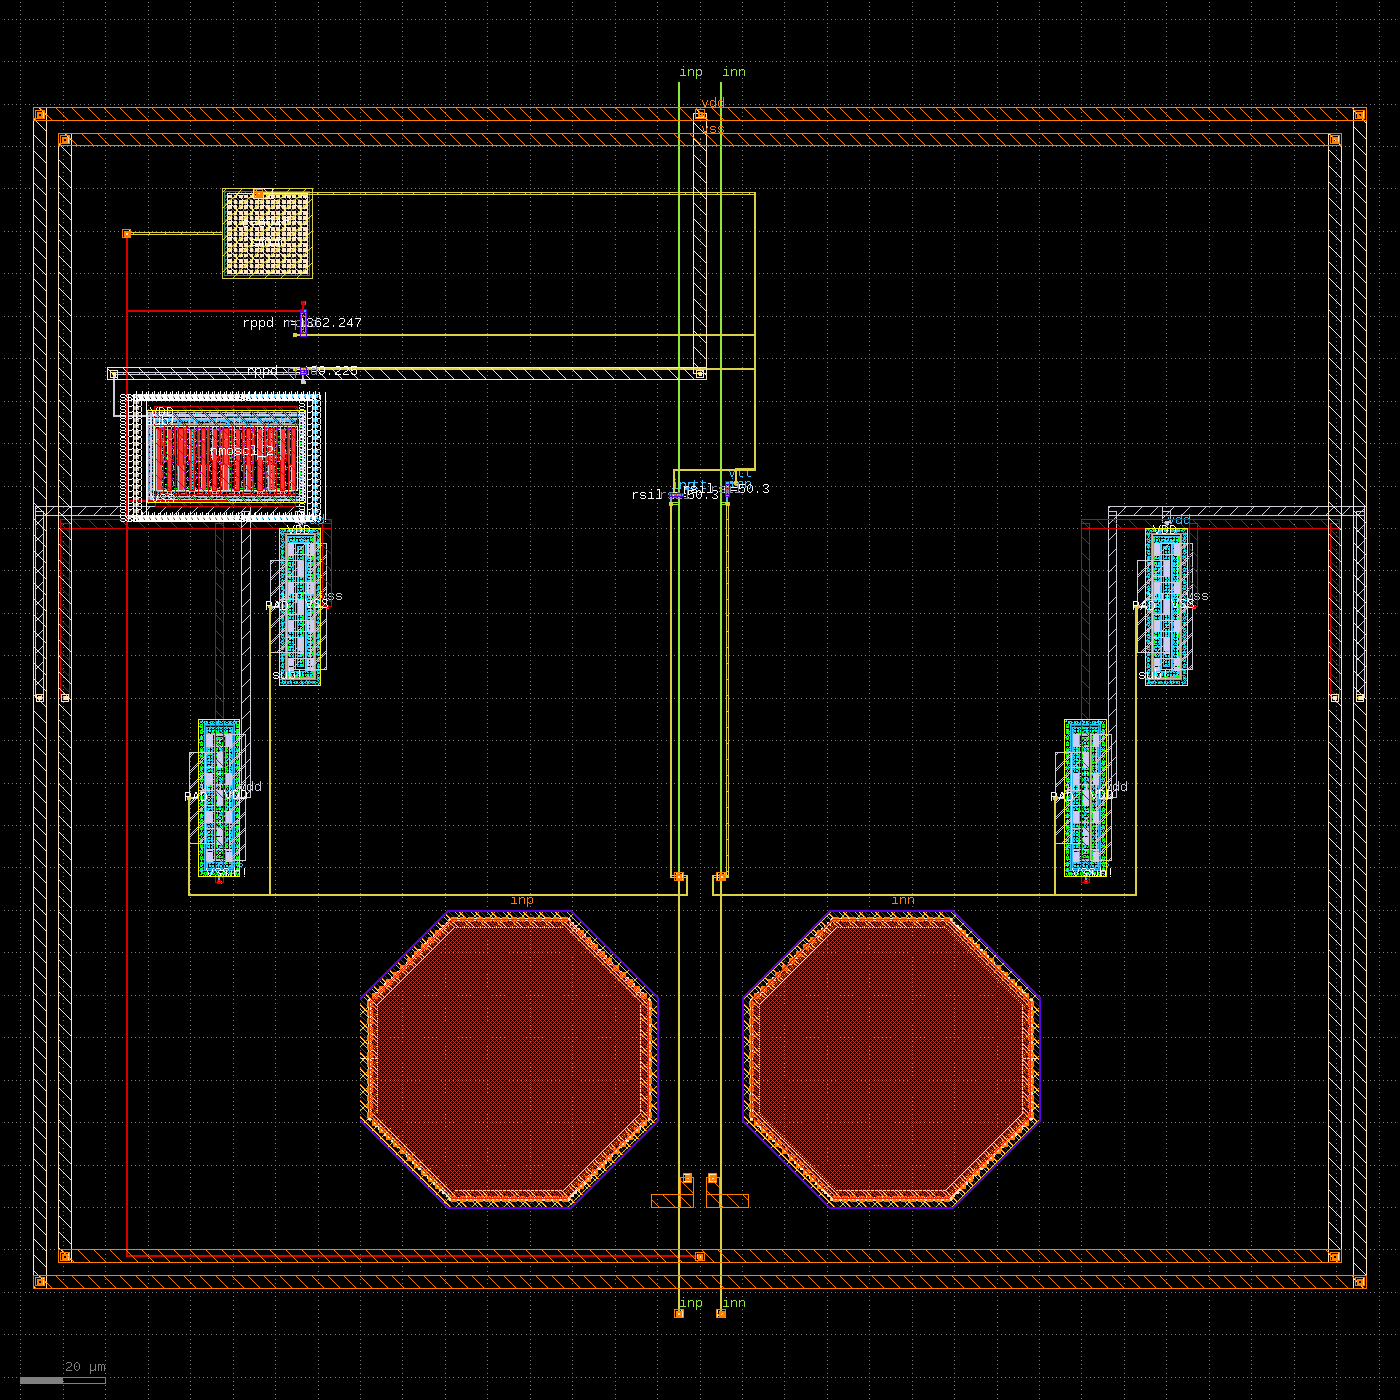
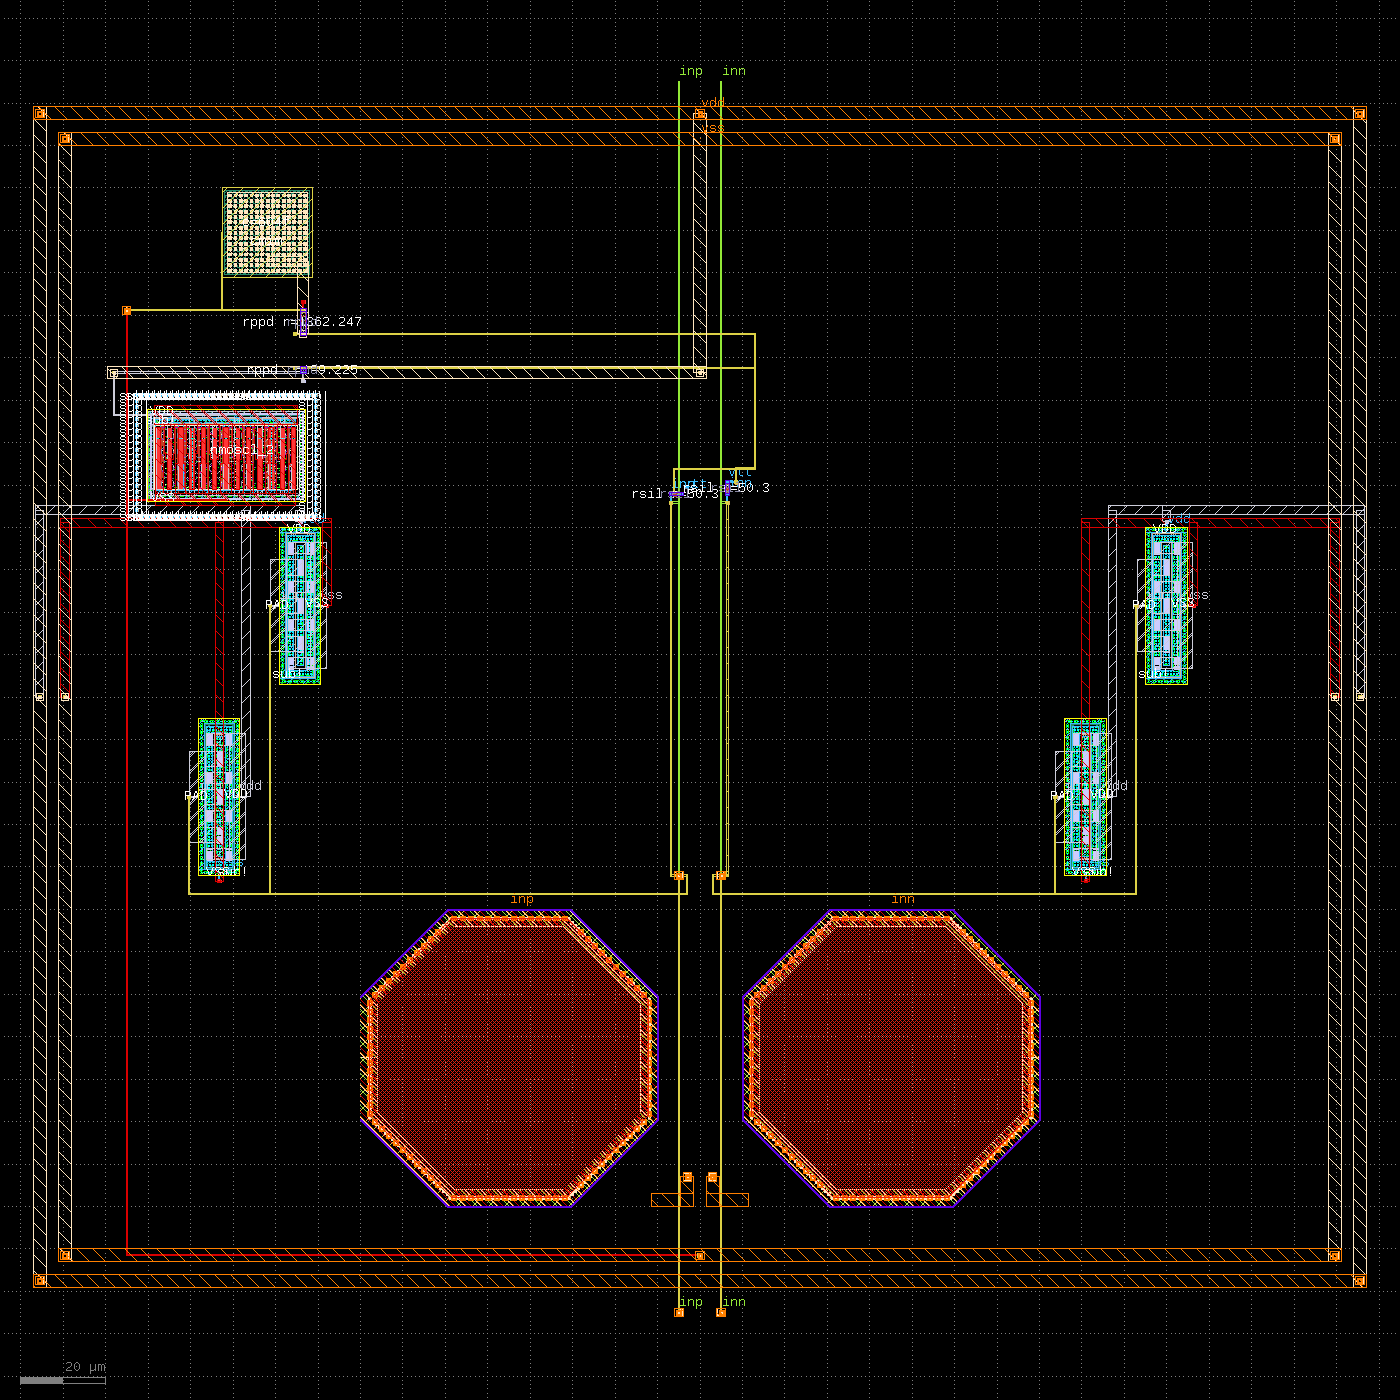
term_dut: ctle-style cmim legs, clamp CDL fix, LVS clean
Route cap_cmim MINUS/PLUS with Metal5 and TopMetal1 legs from rbot_t
(ctle_stage degen pattern) so mim plates merge vss/vtt in hierarchical
LVS without terminal labels that created isolated nets.

Restore clamp instance CDL mapping to VDD=vdd, VSS=vss (driver pattern);
the swapped mapping broke LVS schematic alignment while extract stayed
vss/vdd on A/C.

Add inp/inn PEX pad-cap breakdown to main() output and summary JSON.

diff --git a/layout/blocks/term_stage.py b/layout/blocks/term_stage.py
@@ -29,6 +29,8 @@ Usage:
 from __future__ import annotations
 
 import argparse
+import json
+import re
 import sys
 from pathlib import Path
 
@@ -269,7 +271,7 @@ def build_term_stage(params: dict[str, float] | None = None) -> Block:
     if _bisect_at_least("plus_clamp"):
         clamp = clamp_spec.with_name("clamp")
         clamp_t, clamp_box = place(layout, cell, clamp, side_x, row_y)
-        instances.append((clamp, {"VDD": "vss", "VSS": "vdd"}))
+        instances.append((clamp, {"VDD": "vdd", "VSS": "vss"}))
 
     if _bisect_at_least("plus_divider"):
         rtop_i = rtop.with_name("rtt_top")
@@ -356,17 +358,35 @@ def build_term_stage(params: dict[str, float] | None = None) -> Block:
             rect(layout, cell, bottom, lx - bus_w / 2, min(ly, strap_y), lx + bus_w / 2, max(ly, strap_y))
             rect(layout, cell, bottom, min(lx, bus_x), strap_y - bus_w / 2,
                   max(lx, bus_x), strap_y + bus_w / 2)
-        decap_y = snap(cdec_t["MINUS"].center[1])
+        # ``cmim`` MINUS: ctle-style Metal5 leg from ``rbot_t['MINUS']`` to the cap plate,
+        # then the same Metal5 run into the vss column. A strap from the cap edge alone does
+        # not merge mim_btm with the divider ``vss`` net in hierarchical LVS.
         m5_w = snap(route_width("Metal5"))
-        rect(layout, cell, "Metal5", min(vss_bus_x, cdec_box.left) - m5_w / 2, decap_y - m5_w / 2,
-              max(vss_bus_x, cdec_box.left) + m5_w / 2, decap_y + m5_w / 2)
-        via_between(layout, cell, vss_bus_x, decap_y, "Metal5", "Metal4", columns=2, rows=2)
-        via_between(layout, cell, vss_bus_x, decap_y, "Metal4", "Metal3", columns=2, rows=2)
-        _edge_route(layout, cell, "Metal3", vss_bus_x, decap_y, vss_strap_y, m3_w)
+        leg_y = vss_strap_y
+        rx, ry = rbot_t["MINUS"].center
+        fx, fy = cdec_t["MINUS"].center
+        via_between(layout, cell, rx, ry, "Metal1", "Metal5")
+        rect(layout, cell, "Metal5", rx - m5_w / 2, min(ry, leg_y), rx + m5_w / 2, max(ry, leg_y))
+        rect(layout, cell, "Metal5", min(rx, fx), leg_y - m5_w / 2, max(rx, fx), leg_y + m5_w / 2)
+        rect(layout, cell, "Metal5", fx - m5_w / 2, min(fy, leg_y), fx + m5_w / 2, max(fy, leg_y))
+        rect(layout, cell, "Metal5", min(rx, vss_bus_x), leg_y - m5_w / 2,
+              max(rx, vss_bus_x), leg_y + m5_w / 2)
+        via_between(layout, cell, vss_bus_x, leg_y, "Metal5", "Metal4", columns=2, rows=2)
+        via_between(layout, cell, vss_bus_x, leg_y, "Metal4", "Metal3", columns=2, rows=2)
+        # ``cmim`` PLUS: TopMetal1 leg from ``rbot_t['PLUS']`` to the cap top plate, then
+        # ``_join_vtt`` on the divider ``PLUS`` pin carries ``vtt`` on Metal5.
+        plus_leg_y = snap((rbot_box.bottom + cdec_box.top) / 2.0)
+        px, py = rbot_t["PLUS"].center
+        tx, ty = cdec_t["PLUS"].center
+        tm1_w = snap(route_width("TopMetal1"))
+        via_between(layout, cell, px, py, "Metal1", "TopMetal1")
+        rect(layout, cell, "TopMetal1", px - tm1_w / 2, min(py, plus_leg_y), px + tm1_w / 2, max(py, plus_leg_y))
+        rect(layout, cell, "TopMetal1", min(px, tx), plus_leg_y - tm1_w / 2, max(px, tx), plus_leg_y + tm1_w / 2)
+        rect(layout, cell, "TopMetal1", tx - tm1_w / 2, min(ty, plus_leg_y), tx + tm1_w / 2, max(ty, plus_leg_y))
+        rbot_feed_y = _join_vtt(rbot_t["PLUS"], row_y, vtt_stub_dx)
         vtt_ys += [
             _join_vtt(rtop_t["MINUS"], row_y, vtt_stub_dx),
-            _join_vtt(rbot_t["PLUS"], row_y, vtt_stub_dx),
-            _join_vtt(cdec_t["PLUS"], row_y, vtt_stub_dx),
+            rbot_feed_y,
         ]
 
     if guard_tap is not None:
@@ -583,6 +603,56 @@ def build_term_stage(params: dict[str, float] | None = None) -> Block:
     return block
 
 
+_C_LINE = re.compile(r"^C(\S+)\s+(\S+)\s+(\S+)\s+([0-9.eE+-]+)(\w*)(?:\s+\$.*)?$")
+_CAP_SI = {"m": 1e-3, "u": 1e-6, "n": 1e-9, "p": 1e-12, "f": 1e-15, "a": 1e-18}
+
+
+def _cap_value(raw: str, suffix: str) -> float:
+    scale = _CAP_SI.get(suffix[:1].lower(), 1.0) if suffix else 1.0
+    return float(raw) * scale
+
+
+def _pad_cap_breakdown(pex_spice: Path) -> dict[str, dict[str, float]]:
+    """Half-capacitor attribution on inp/inn from explicit Magic PEX ``C`` lines."""
+    if not pex_spice.is_file():
+        return {}
+    buckets = ("pad_metal", "esd", "shunt_50r", "vtt_divider", "diff_cpl", "substrate", "other")
+    out: dict[str, dict[str, float]] = {net: {b: 0.0 for b in buckets} for net in ("inp", "inn")}
+
+    def _bucket(other: str, net: str) -> str:
+        name = other.lower()
+        if "floating" in name:
+            return "substrate"
+        if name in {"vdd", "vss"} and net in {"inp", "inn"}:
+            return "esd"
+        if name.startswith("m7_") or "pad" in name:
+            return "pad_metal"
+        if name.startswith("rt_") or name.startswith("rtt_") or "rsil" in name:
+            return "shunt_50r"
+        if name == "vtt":
+            return "vtt_divider"
+        if name in {"inp", "inn"}:
+            return "diff_cpl"
+        if "ptap" in name or "/sub" in name or name.startswith("w_"):
+            return "substrate"
+        return "other"
+
+    for line in pex_spice.read_text().splitlines():
+        if "**FLOATING" in line:
+            continue
+        match = _C_LINE.match(line.strip())
+        if not match:
+            continue
+        a, b = match.group(2), match.group(3)
+        c = _cap_value(match.group(4), match.group(5))
+        for net in ("inp", "inn"):
+            if a == net:
+                out[net][_bucket(b, net)] += c / 2.0
+            elif b == net:
+                out[net][_bucket(a, net)] += c / 2.0
+    return out
+
+
 def main(argv: list[str] | None = None) -> int:
     parser = argparse.ArgumentParser(description=__doc__)
     parser.add_argument("--out", type=Path, default=OUT_DIR)
@@ -591,7 +661,7 @@ def main(argv: list[str] | None = None) -> int:
     args = parser.parse_args(argv)
 
     block = build_term_stage(read_params(PARAMS_INC))
-    code, _entry = run_stage_gates(
+    code, entry = run_stage_gates(
         block,
         args.out,
         schematic=Path("circuits/ctle56n/spice/term_pdk.cir"),
@@ -601,6 +671,28 @@ def main(argv: list[str] | None = None) -> int:
         no_render=args.no_render,
         no_pex=args.no_pex,
     )
+    pex_path = args.out / "pex_run" / f"{CELL}_pex.spice"
+    pad_caps = _pad_cap_breakdown(pex_path)
+    if pad_caps:
+        entry.setdefault("pex", {})["pad_capacitance_f"] = pad_caps
+        per_net = entry.get("pex", {}).get("per_net_capacitance_f", {})
+        summary_path = args.out / f"{CELL}_summary.json"
+        if summary_path.is_file():
+            summary = json.loads(summary_path.read_text())
+            summary.setdefault("pex", {})["pad_capacitance_f"] = pad_caps
+            summary_path.write_text(json.dumps(summary, indent=2) + "\n")
+        pad_c_model = read_params(PARAMS_INC).get("PAD_C", 0.0)
+        for net in ("inp", "inn"):
+            parts = pad_caps[net]
+            interconnect_ff = sum(parts.values()) * 1e15
+            physical_ff = float(per_net.get(net, 0.0)) * 1e15
+            detail = ", ".join(f"{k}={v * 1e15:.1f} fF" for k, v in parts.items() if v > 0)
+            print(
+                f"  pad C   {net}  {physical_ff:.1f} fF physical (Magic per-net); "
+                f"{interconnect_ff:.1f} fF explicit C lines ({detail}); "
+                f"hand pad model {pad_c_model * 1e15:.1f} fF; "
+                f"MEMORY ESD pair ~50.9 fF at 1.4 V"
+            )
     return code
 
 
